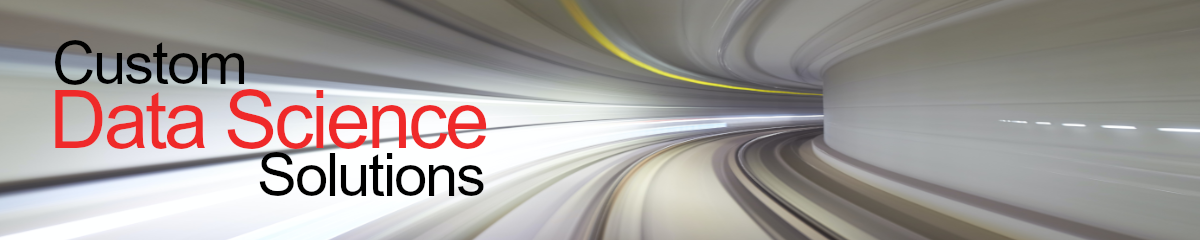
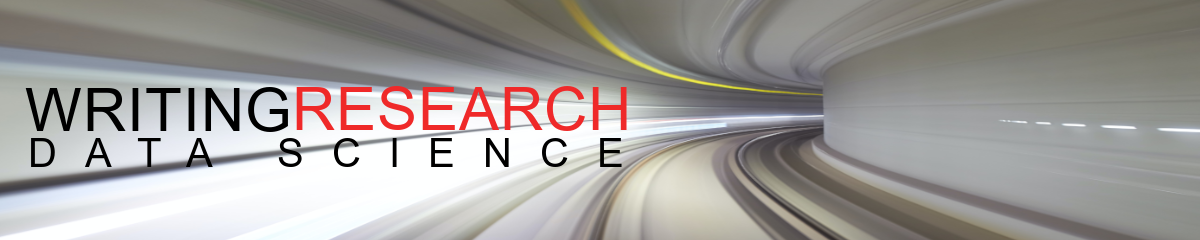
Update README.MD

Changed region(s): [[0.0, 0.175, 0.5242, 0.8167]]

diff --git a/README.md b/README.md
@@ -1,151 +1,59 @@
 <img src="github-cover-ds.png">
 
-# Burritt Research: Custom Data Science Solutions
+# Writing | Research | Data Science
 
-With 2.5 BILLION gigs of new data created EVERY day, any business that ignores data science does so at their own PERIL.
+## Who We Are
 
-But hiring a dedicated data science staff is EXPENSIVE and DIFFICULT.
+Burritt Research is a research and writing firm formed in 2005. We are experts at transforming arcane subjects into engaging content. 
 
-That’s where we come in. 
+## What We Do
 
-Since 2005, BURRITT RESEARCH has provided companies with CUSTOM data science solutions without having to hire a dedicated data science staff.
+> We specialize in cryptocurrency/blockchain, investments, and data science.  
+> We publish regularly on [medium.com](https://medium.com/burritt-research) and other platforms.  
+> Please visit our Portfolio below.   
 
-Using YOUR DATA we can:
+## Solutions
 
-**==> Uncover your most PROFITABLE products and services.**
+Blog Posts/Articles • Web Content • Marketing Content • White Papers • Data Science  
 
-Solution from our portfolio: [Predicting Customer Churn](https://github.com/Drimdave/Predicting-Customers-Churn 'Predicting Customer Churn')
+## Programming Languages
 
-**==> Guide team members toward better and more verifiable DECISIONS.**
+Python • Advanced Excel with VBA • IBM Cognos Analytics • IBM Cloud AI • Git/GitHub • HTML/CSS • SQL  
 
-Solution from our portfolio: [Data Analysis and Visualization of the Covid-19 Pandemic in Nigeria](https://github.com/Drimdave/Covid-19-Data-Analysis-and-Visualization 'Data Analysis and Visualization of the Covid-19 Pandemic in Nigeria')
+# Wayne Burritt, CEO  
 
-**==> Build machine learning and AI models that make bankable PREDICTIONS.**
+<img src="wayne-burritt-pic.jpg">
 
-Solution from our portfolio: [Predicting FIFA Player Performance](https://github.com/Drimdave/FIFA-19-DATA-ANALYSIS-VISUALISATION-AND-PREDICTION 'Predicting FIFA Player Performance')
+Wayne loves to help people understand hard-to-understand things. When he’s not writing or coding he likes hanging out with his wife Debi in the mountains of northeast Tennessee and teaching ballet.  
 
-**==> Create systems that reduce RISK across the board.**
-
-Solution from our portfolio: [San Francisco Crime Classification](https://github.com/Drimdave/The-San-Francisco-Crime-Classification 'San Francisco Crime Classification')
-
-**==> Increase marketing ANALYTICS exponentially.**
-
-Solution from our portfolio: [Data Analysis and Visualization of Restaurants in Johnson City, Tennessee](https://github.com/burrittresearch/restaurants-johnson-city 'Data Analysis and Visualization of Restaurants in Johnson City, Tennessee')
-
-**==> Deliver jargon-free reports that ENGAGE and INSPIRE team members.**
-
-Solution from our portfolio: [Exploratory Data Analysis Report of Restaurants in Johnson City, Tennessee](https://burrittresearch.com/wayne-burritt-restaurants-jc-report.pdf 'Exploratory Data Analysis Report')
-
-**(More solutions in our PORTFOLIO below.)**
-
-We can deliver these solutions using out-of-the-box tools, like Excel, IBM Cognos, PowerBI, and Tableau.
-
-In fact, we’re EXPERTS at using these tools to do just that.
-
-But with these tools, we’ll only be able to touch 20% OF YOUR DATA. And that’s because they’re designed to work best with data that’s ORGANIZED and NEAT.
-
-To touch the other 80%, you’ll need other tools -- CUSTOM DATA SCIENCE TOOLS that are designed to work with data that’s NOT-organized and NOT-neat.
-
-We’re EXPERTS at using these custom tools as well.
-
-Is the 80% worth it? No doubt. Buried in that unorganized data soup of blogs, emails, social media feeds, and websites are DATA GEMS. And the fact that they’re so hard to get makes them super-valuable.
-
-But no matter which way you go – out-of-the-box or custom -- our deliverables are EASY to understand, implement, and track -- no jargon or esoteric nonsense. 
-
-And you’ll work DIRECTLY with our CEO, [Wayne](mailto:wburritt@burrittresearch.com?subject=Info), and our Chief Data Scientist, [David](mailto:doyelade@burrittresearch.com?subject=Info), every step of way, from our first meeting to the wrap up.
-
-You won’t be handed off and you won’t have to navigate an anonymous data behemoth to get help.
+[wburritt@burrittresearch.com](mailto:wburritt@burrittresearch.com?subject=Info)  
+[linkedin.com/in/wayneburritt](https://www.linkedin.com/in/wayneburritt 'Wayne Burritt LinkedIn')  
+[@burrittresearch](https://twitter.com/burrittresearch/ 'Burritt Research Twitter')  
+[Wayne's Resume](https://burrittresearch.com/j-wayne-burritt-resume.pdf "Wayne's Resume")  
 
 # People We've Helped
 
 <img src="github-clients.png">
 
-# What We Do
-
-## Solutions
-
-Digital Marketing • Business Analysis • Market Analysis • Product Analysis • Sales Analysis • Profit Analysis • Investment Analysis • Credit Analysis • Financial Analysis
-
-## Languages and Platforms
-
-Python • R (R Studio) • SQL • Advanced Excel with VBA • IBM Cognos Analytics • Tableau • PowerBI • IBM Cloud AI • Git/GitHub • HTML/CSS
-
-## Tools and Methods
-
-### Data Analysis
-
-Data Analysis • Data Cleaning • Data Manipulation • Data Visualization • Machine Learning, Artificial Intelligence, Neural Networks (see below) • Financial Writing
-
-### Machine Learning, Artificial Intelligence, and Neural Networks
-
-TensorFlow • Keras • Flask • Regression (Linear, Multi-Linear, Logistic, Polynomial, SVR, Random Forest) • Classification (K-NN, SVM, Random Forest, Naïve Bayes) • Clustering (K-Means, Hierarchical) • Gradient Boosting
-
-# Our Team
-
-| Wayne Burritt, CEO and Data Scientist | David Oyelade, Chief Data Scientist |
-| :--- | :--- |
-| <img src="wayne-burritt-pic.jpg"> | <img src="david-oyelade-pic.jpg"> |
-| Wayne loves to help people find solutions to problems using data. The harder the problem, the better. His journey began with VisiCalc and has led to data and financial analysis for companies like Bank of America, Morgan Stanley, and Weiss Research. When he's not coding he likes hanging out with his wife Debi in the mountains of southwest Virginia and teaching ballet. | David brings a deep understanding of computer science and mathematics to his role as Burritt Research's Chief Data Scientist. He enjoys building algorithms from scratch and seeing where those scripts can take his clients. He is also a certified Digital Marketer who specializes in brand management, lead generation, and website traffic management. |
-| [wburritt@burrittresearch.com](mailto:wburritt@burrittresearch.com?subject=Info) | [doyelade@burrittresearch.com](mailto:doyelade@burrittresearch.com?subject=Info) | 
-| [github.com/burrittresearch](https://github.com/burrittresearch 'Burritt Research GitHub') | [github.com/Drimdave](https://github.com/Drimdave 'David Oyelade GitHub') |
-| [linkedin.com/in/wayneburritt](https://www.linkedin.com/in/wayneburritt 'Wayne Burritt LinkedIn') | [linkedin.com/in/oyelade-david](https://www.linkedin.com/in/oyelade-david 'David Oyelade LinkedIn') |
-| [@burrittresearch](https://twitter.com/burrittresearch/ 'Burritt Research Twitter') | [@burrittresearch](https://twitter.com/burrittresearch/ 'Burritt Research Twitter') |
-| [Wayne's Resume](https://burrittresearch.com/j-wayne-burritt-resume.pdf "Wayne's Resume") | [David's Resume](https://burrittresearch.com/david-oyelade-resume.pdf "David's Resume")
-
-Agora Financial • Bank of America • Festive • Morgan Stanley • Telesto Group • Weiss Research  
+Bank of America • Big Innovations • Agora Financial • Morgan Stanley • Weiss Ratings  
 
 # Our Portfolio
 
-## Data Science Projects Using Python in Jupyter Notebook
+## Cryptocurrency/Blockchain
 
-### [Predicting Customer Churn](https://github.com/Drimdave/Predicting-Customers-Churn 'Predicting Customer Churn')
+[Article Recommending Ethereum](https://burrittresearch.com/wayne-burritt-article-buy-ethereum-today-medium.pdf 'Article Recommending Ethereum')  
+[Article on the Impact of Blockchain](https://burrittresearch.com/wayne-burritt-article-blockchain-will-reshape-medium.pdf 'Article on the Impact of Blockchain')  
+[Article about Tezos Node Storage](https://burrittresearch.com/wayne-burritt-article-heres-why-tezos-medium.pdf 'Article about Tezos Node Storage')  
 
-Data analysis, visualization, and prediction model of customer churn rate.
+## Investments
 
-### [Data Analysis and Visualization of the Covid-19 Pandemic in Nigeria](https://github.com/Drimdave/Covid-19-Data-Analysis-and-Visualization 'Data Analysis and Visualization of the Covid-19 Pandemic in Nigeria')
+[Financial Market Blog](https://burrittresearch.com/wayne-burritt-blog-insights.pdf 'Financial Market Blog')  
+[Investment Newsletter](https://burrittresearch.com/wayne-burritt-newsletter-agora-emo.pdf 'Investment Newsletter')  
+[Equity Research Report](https://burrittresearch.com/wayne-burritt-research-alkame.pdf 'Equity Research Report')  
 
-Comprehensive data analysis and visualization of the covid-19 pandemic in Nigeria.
+## Data Science 
 
-### [Predicting FIFA Player Performance](https://github.com/Drimdave/FIFA-19-DATA-ANALYSIS-VISUALISATION-AND-PREDICTION 'Predicting FIFA Player Performance')
+[Jupyter Notebook: Data Analysis and Visualization of Restaurants in Johnson City, Tennessee](https://github.com/burrittresearch/restaurants-johnson-city 'Data Analysis and Visualization of Restaurants in Johnson City, Tennessee')  
+[Jupyter Notebook: Predicting Home Prices Kaggle Competition](https://github.com/burrittresearch/kaggle-competition-predict-house-prices 'Predicting Home Prices Kaggle Competition')  
+[Exploratory Data Analysis Report of Restaurants in Johnson City, Tennessee](https://burrittresearch.com/wayne-burritt-restaurants-jc-report.pdf 'Exploratory Data Analysis Report')  
 
-Data analysis, visualization, and prediction model of FIFA player performance.
-
-### [San Francisco Crime Classification](https://github.com/Drimdave/The-San-Francisco-Crime-Classification 'San Francisco Crime Classification')
-
-Data analysis, visualization, and prediction algorithm of crime in San Francisco, California.
-
-### [Data Analysis and Visualization of Restaurants in Johnson City, Tennessee](https://github.com/burrittresearch/restaurants-johnson-city 'Data Analysis and Visualization of Restaurants in Johnson City, Tennessee')
-
-Data analysis and visualization of the restaurant market in Johnson City, Tennessee.
-
-### [Predicting Home Prices Kaggle Competition](https://github.com/burrittresearch/kaggle-competition-predict-house-prices 'Predicting Home Prices Kaggle Competition')
-
-Data analysis, visualization, and prediction model of home prices for Kaggle competition.
-
-## Data Science Reports
-
-### [Exploratory Data Analysis Report of Restaurants in Johnson City, Tennessee](https://burrittresearch.com/wayne-burritt-restaurants-jc-report.pdf 'Exploratory Data Analysis Report')
-
-Data science report of the analysis and visualization of the restaurant market in Johnson City, Tennessee.
-
-### [Exploratory Data Analysis Presentation of Restaurants in Johnson City, Tennessee](https://burrittresearch.com/wayne-burritt-restaurants-jc-presentation.pdf 'Exploratory Data Analysis Presentation')
-
-Data science presentation of the analysis and visualization of the restaurant market in Johnson City, Tennessee.
-
-## Investment Data Reports
-
-### [Cryptocurrency Report](https://burrittresearch.com/wayne-burritt-research-cryptocurrencies.pdf 'Cryptocurrency Report')
-
-Investment report that talks in-depth about the top 10 cryptocurrencies.
-
-### [Financial Market Blog](https://burrittresearch.com/wayne-burritt-blog-insights.pdf 'Financial Market Blog')
-
-Financial market blog that recommends five investments to own.
-
-### [Investment Newsletter](https://burrittresearch.com/wayne-burritt-newsletter-agora-emo.pdf 'Investment Newsletter')
-
-Options investment newsletter that talks about the investment markets and makes options recommendations.
-
-### [Equity Research Report](https://burrittresearch.com/wayne-burritt-research-alkame.pdf 'Equity Research Report')
-
-Equity research that describes the outlook for Alkame Water.
